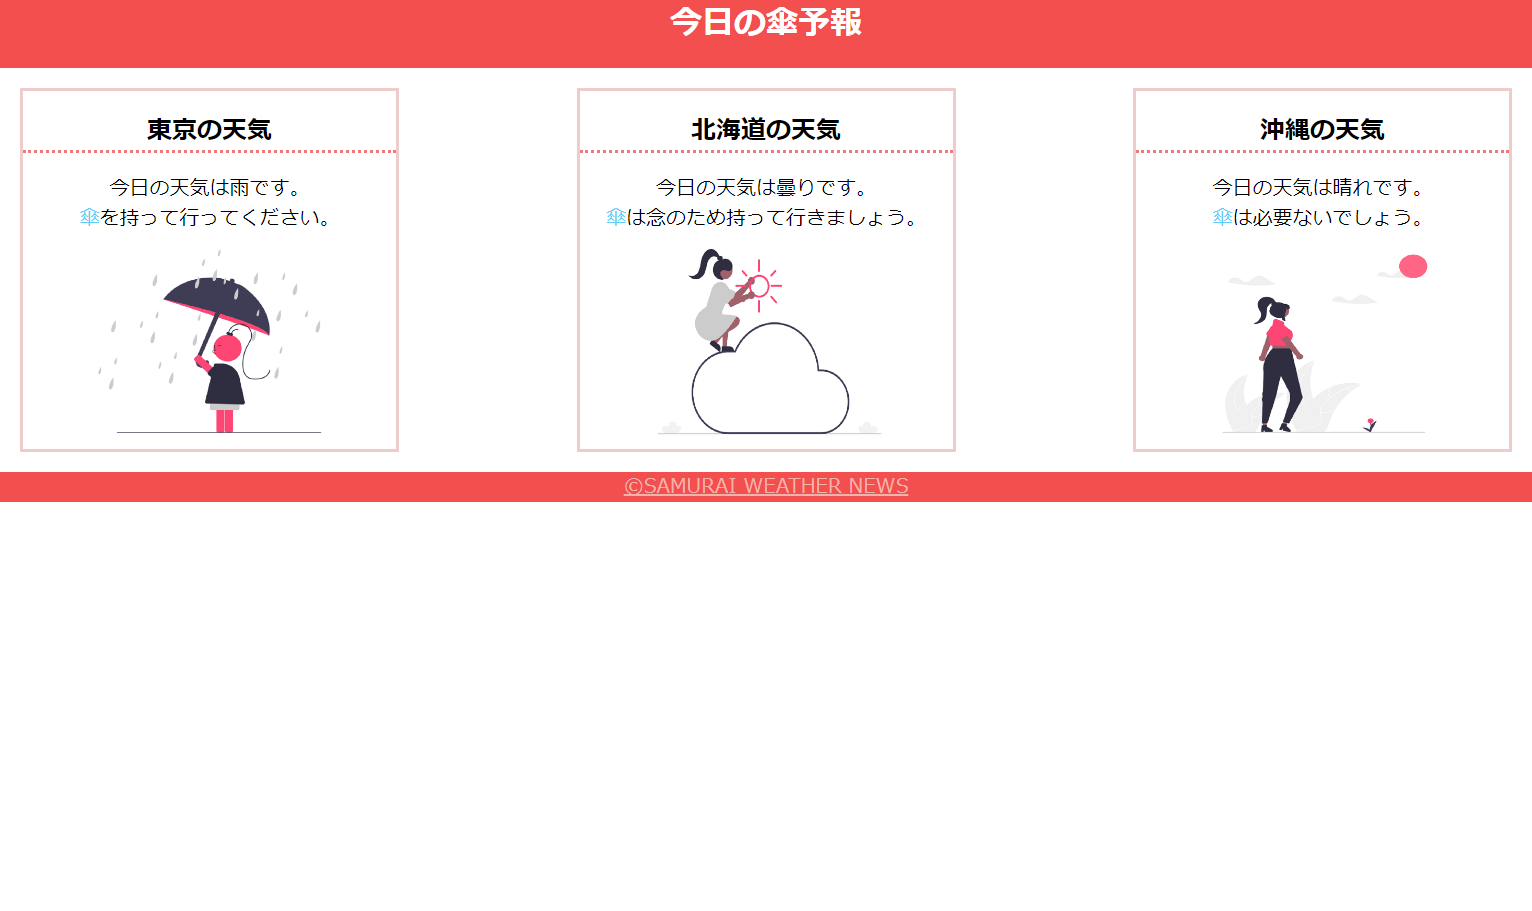
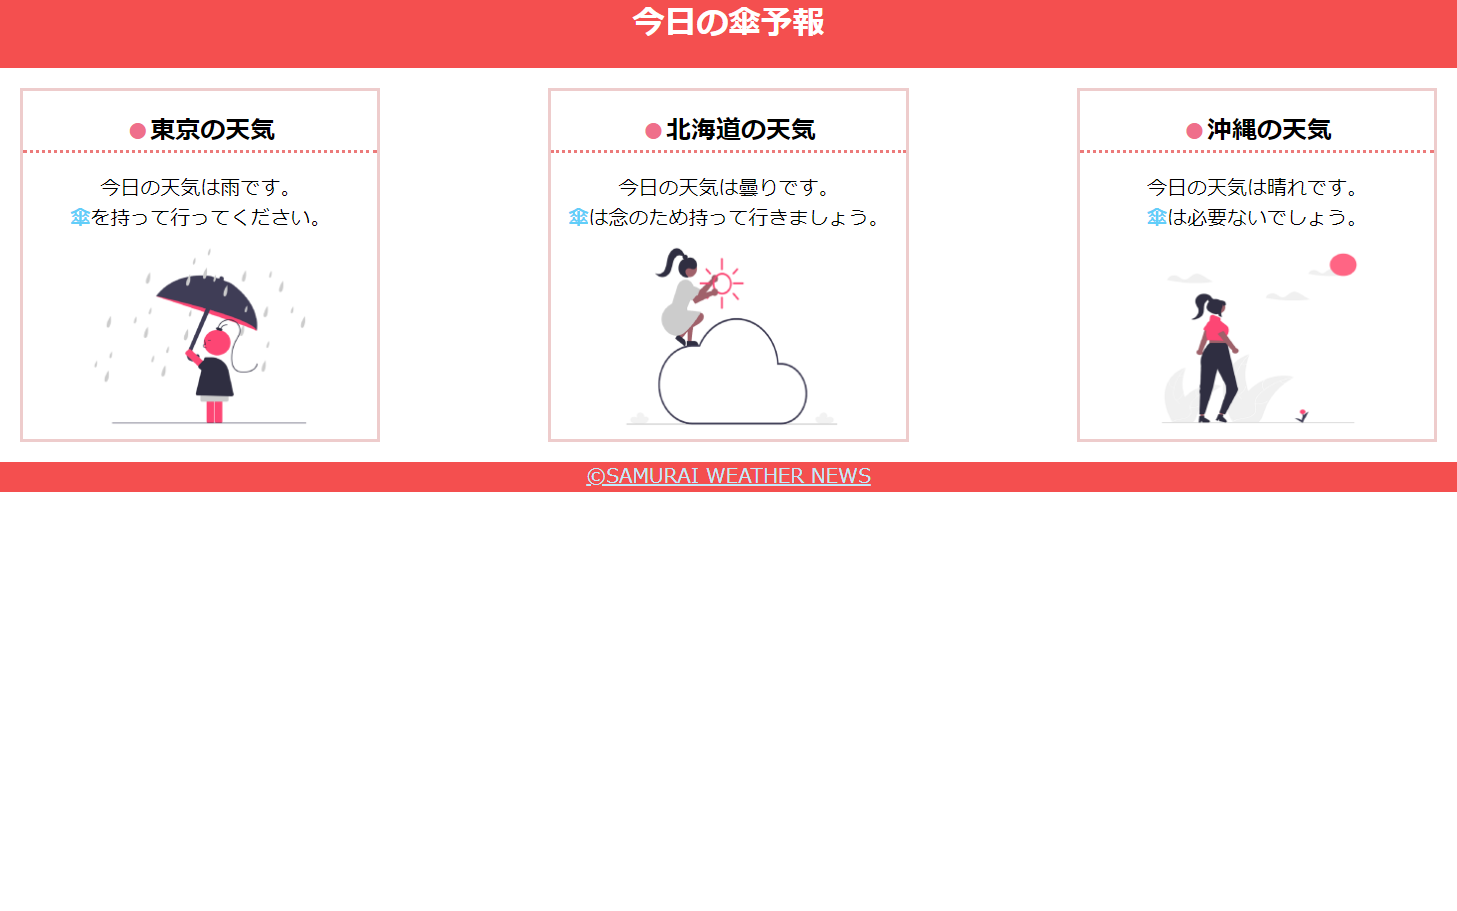
画面キャプチャ再アップロード_20240503

diff --git a/kadai_022/style.css b/kadai_022/style.css
@@ -45,9 +45,12 @@ p {
 h2 {
     font-size: 25px;
     border-bottom: 3px dotted rgb(236,122,122);
-    before{content:"&8226";}
 }    
 
+h2::before{
+    content: "●";
+    color:rgb(239, 111, 139);
+}
 /* div 親要素のID parentの設定*/
 #parent {
     display: flex;
@@ -65,7 +68,7 @@ h2 {
 
 .contents p:nth-of-type(2)::first-letter{
     color: rgb(97,206,249);
-    font-weight: 70%;
+    font-weight: bold;
 }
 
 .contents img{
@@ -81,13 +84,13 @@ a {
 
 /*訪問済リンクのスタイル設定*/
 a:visited {
-        color :rgb(245,178,168)
+        color :rgb(193,234,251);
     }
 
 
 /*リンクにマウスカーソルが乗った時の設定*/
 a:hover {
-        color :rgb(245,178,168)
+        color :rgb(245,178,168);
     }
 
 
